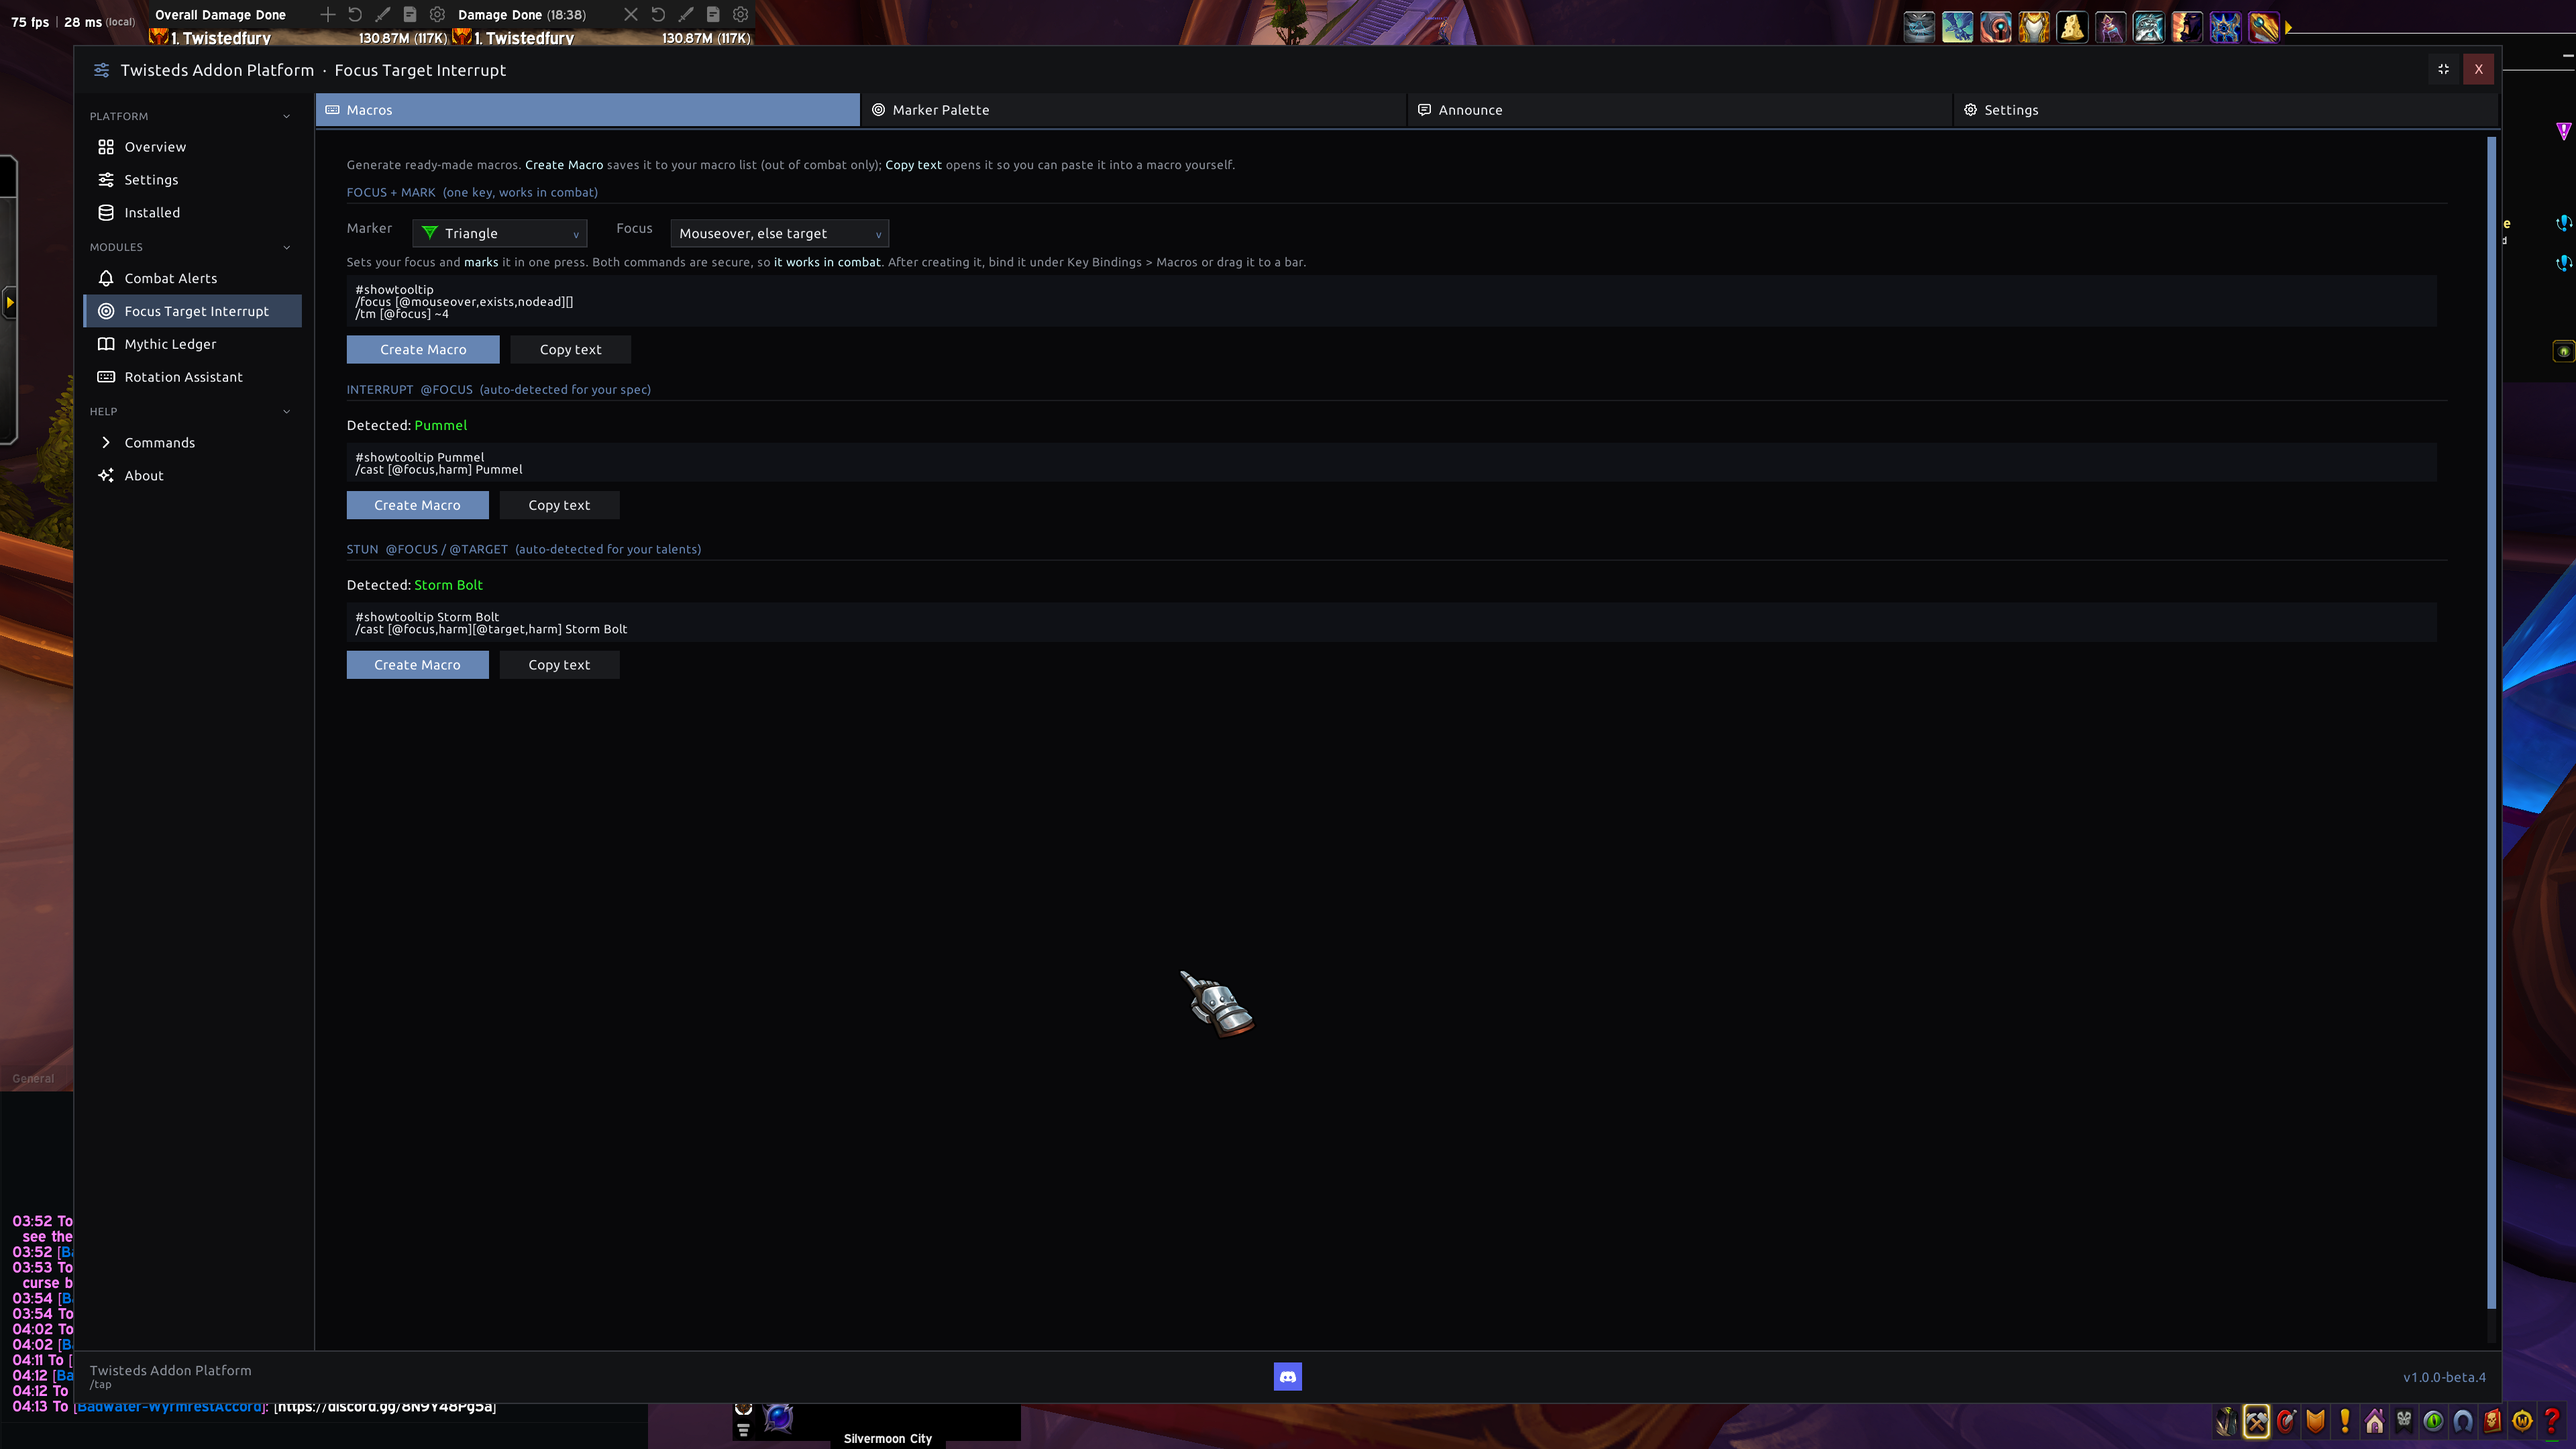
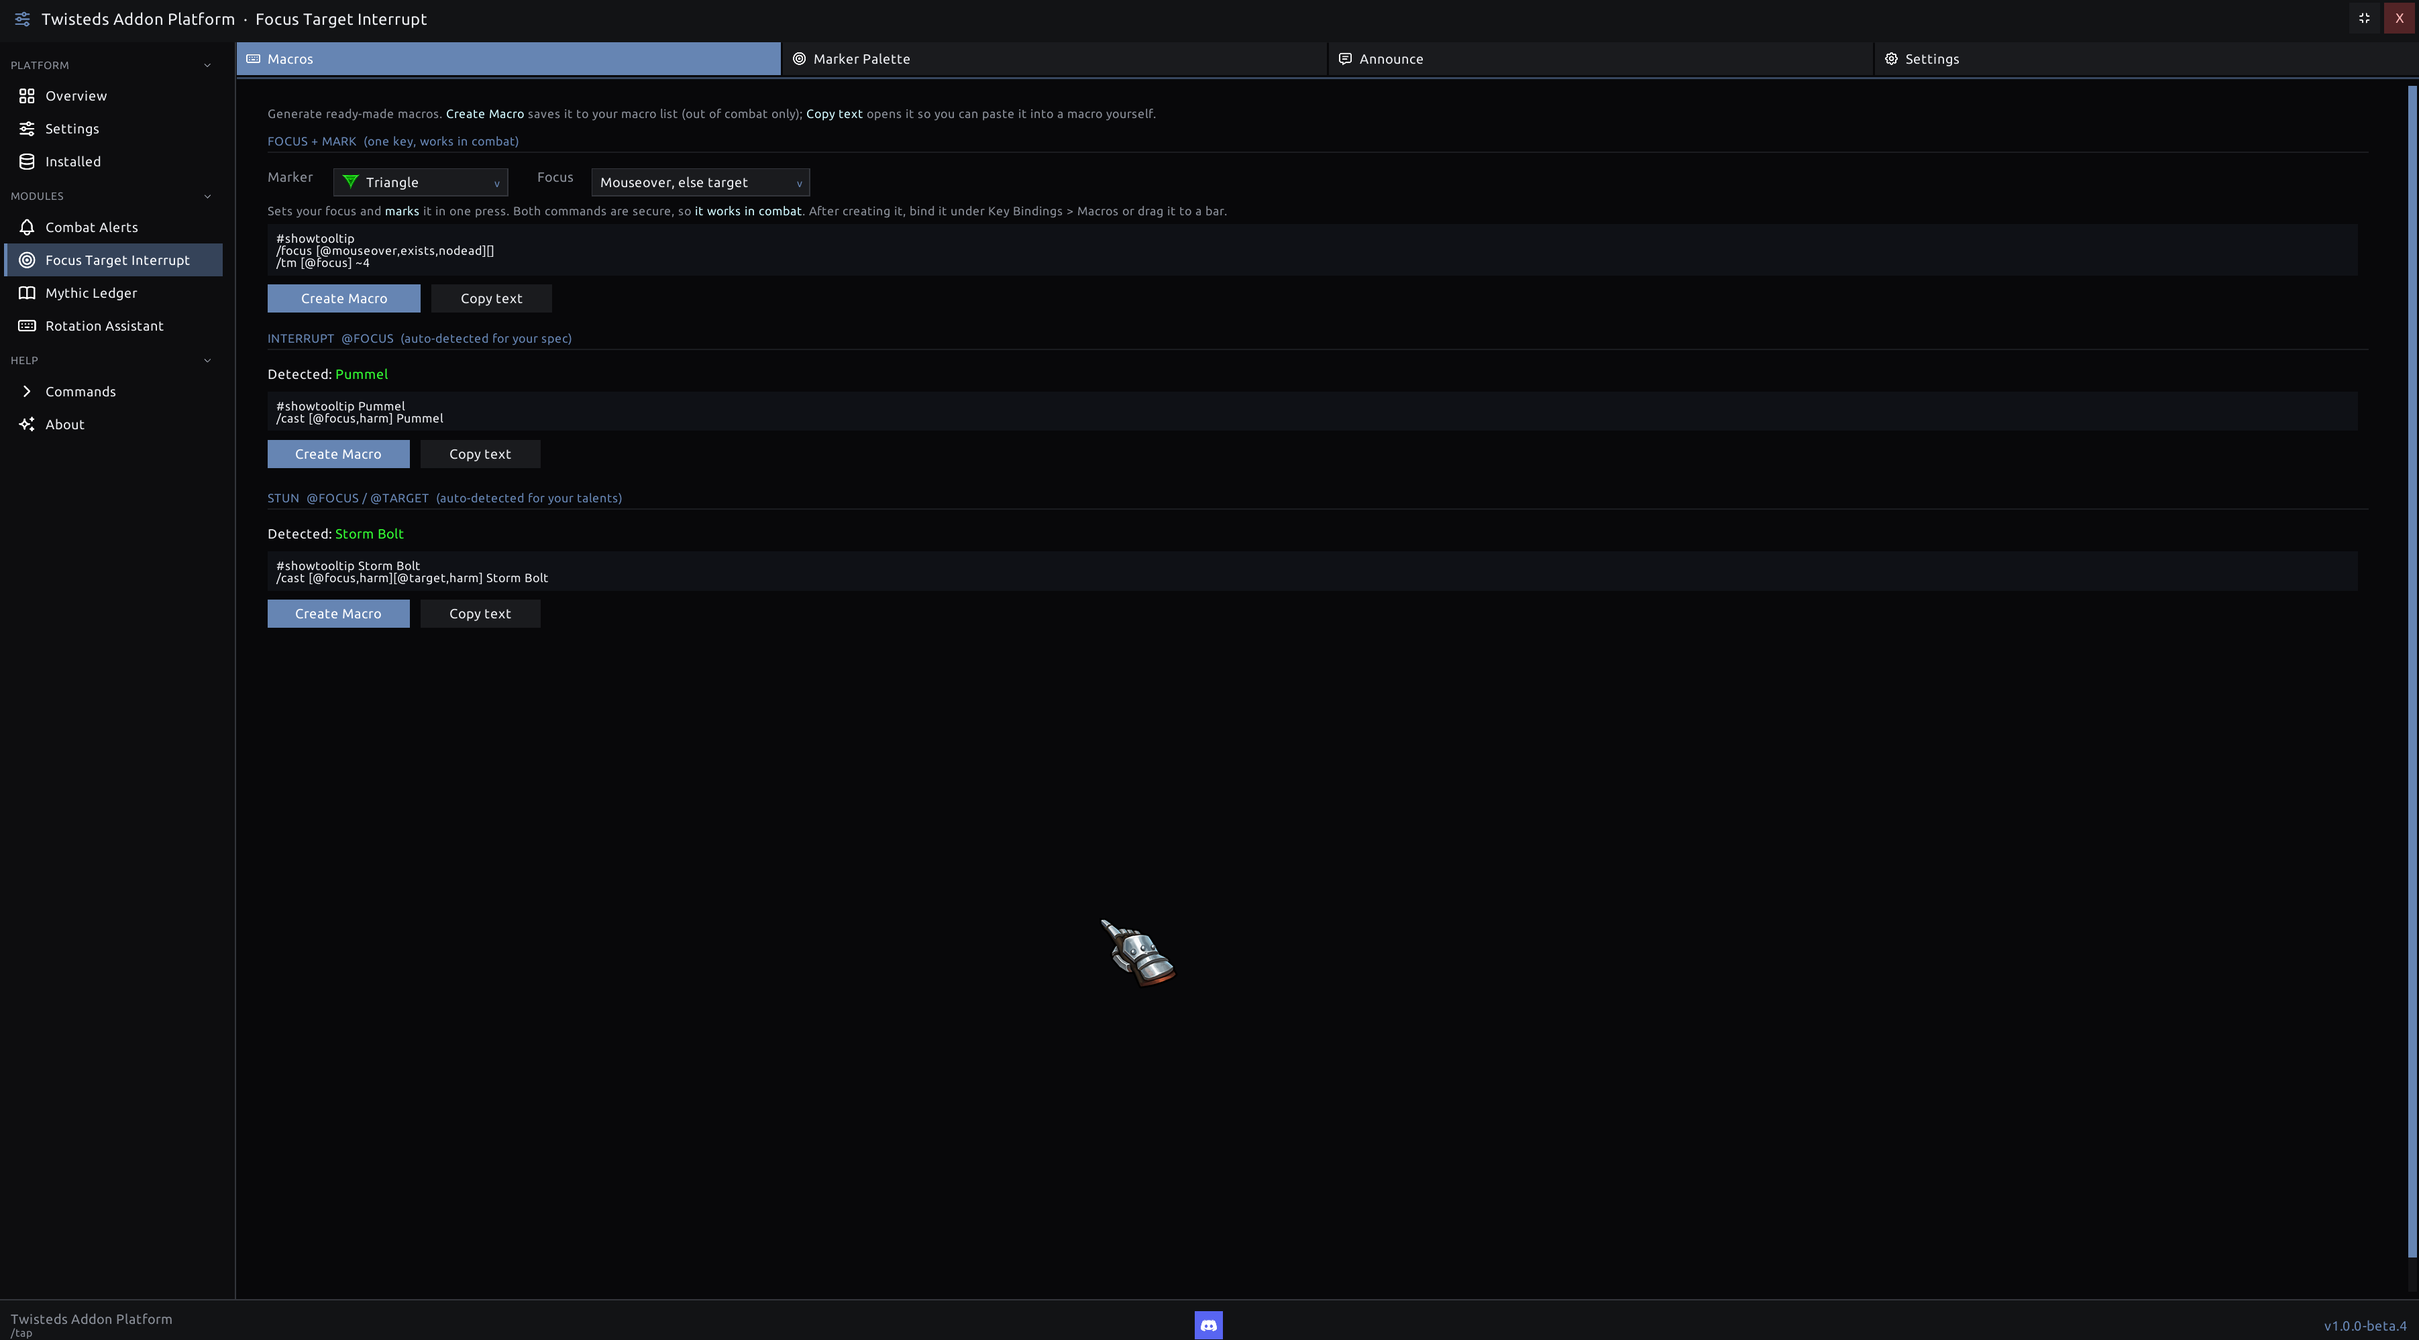
CURSE: crop gallery shots to the window, trim to 7 used images
Crop the four embedded full-screen captures (06/14/19/20) down to just
the addon window, dropping the chat box and Details meter (also shrinks
them substantially). Remove the 14 gallery images not referenced in the
write-up, and drop the now-redundant "more screenshots" gallery link.
Also warms up the Community section with a call for scoring feedback,
suggestions, and testing.

diff --git a/CURSE.md b/CURSE.md
@@ -67,9 +67,6 @@ private**: no data is uploaded, and there are no ratings, blacklists, or judgeme
 
 ![Account-wide Overview — your season at a glance](https://raw.githubusercontent.com/soldercodedev/twistedsaddonplatform/beta/media/14-mythic-ledger-overview.png)
 
-> **More screenshots** (run history, dungeon cards, personal bests, run details, the marker palette,
-> and more) live in the [`media/` gallery on GitHub](https://github.com/soldercodedev/twistedsaddonplatform/tree/beta/media).
-
 ---
 
 ## Why a platform?
@@ -95,7 +92,13 @@ private**: no data is uploaded, and there are no ratings, blacklists, or judgeme
 
 ## 💬 Community
 
-Questions, bugs, or feature ideas? **[Join the Discord »](https://discord.com/invite/pN5vYDrQ5j)**
+**Come help shape it.** Twisteds Addon Platform is actively in development, and the best ideas come
+from the people actually running keys. Right now we're especially looking for hands to help **dial in
+the Mythic Ledger scoring** — real runs, real feedback on where a grade feels right or wrong — plus
+**feature suggestions, bug reports, and testing** to push the whole platform forward.
+
+Whether you're here to fine-tune the numbers, pitch an idea, squash a bug, or just say hi — you're
+welcome. **[Join the Discord »](https://discord.com/invite/pN5vYDrQ5j)** and jump in.
 
 ---
 
